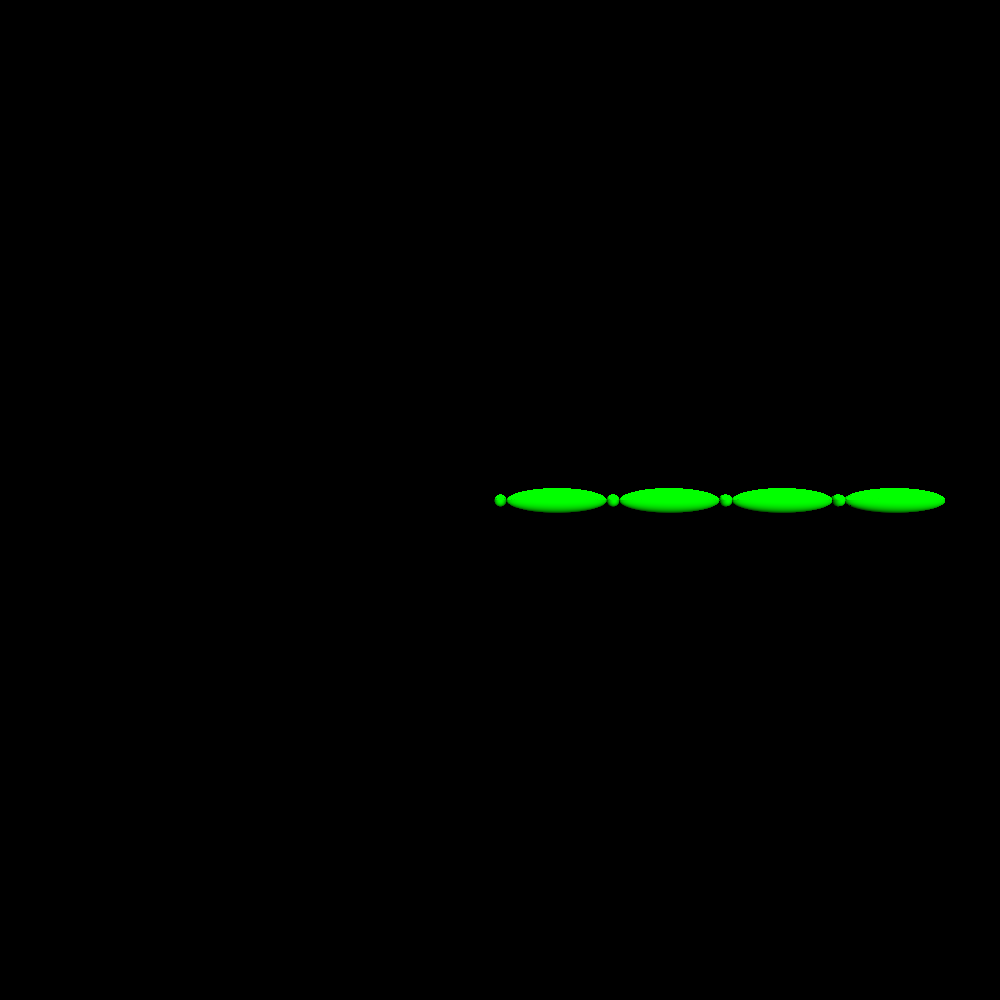
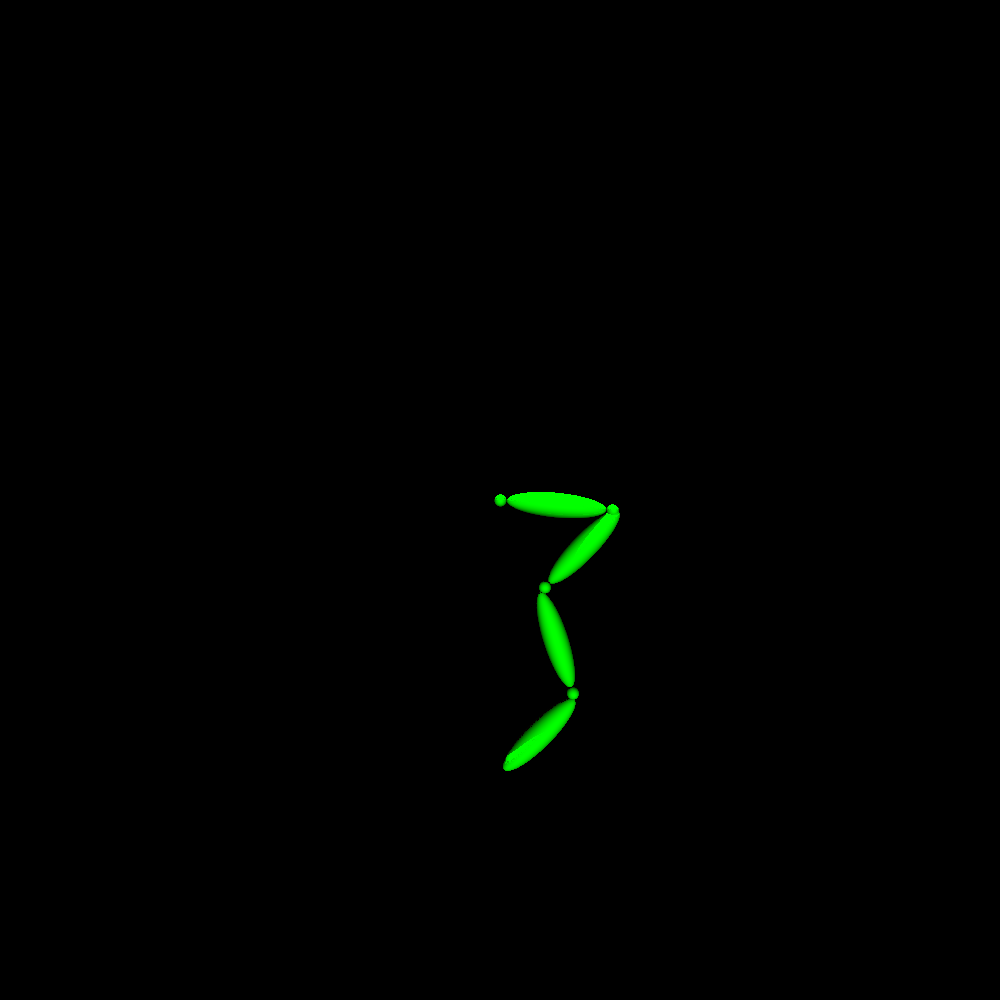
all inverse kinematics functions implemented, very buggy

Changed region(s): [[0.496, 0.465, 0.961, 0.775]]

diff --git a/A4/kinematics_solver.cpp b/A4/kinematics_solver.cpp
@@ -614,6 +614,18 @@ MatrixXd calculateJacobian() {
   return jacob;
 }
 
+void updateAngles(MatrixXd theta) {  
+  int index = 0;
+  Ellipsoid* currEllipsoid = lastEllipsoid;
+  while(currEllipsoid->getLeft() != NULL){
+    if (!currEllipsoid->isJoint()) {
+      currEllipsoid->setTheta(theta(index, 0), theta(index, 1), theta(index, 2));
+      index++;
+    }
+    currEllipsoid = currEllipsoid->getLeft();
+  }
+}
+
 void calculateAngles(Point target, MatrixXd j) {
 
   float epsilon = 0.0001;
@@ -645,20 +657,38 @@ void calculateAngles(Point target, MatrixXd j) {
   // TODO make sure it is okay to skip this
 
   // 2. Find the system end effector pe. Check if ||pe−g||<ϵ. If yes, we are done. Else continue to step 3.
-  // int iter = 0;
-  // int iterMax = 100;
+  int iter = 0;
+  int iterMax = 100;
 
-  // Point endEffector;
-  // while(iter < iterMax){
-  //   endEffector = calcEndPoint(theta);
-  //   if (target.distToPt(endEffector) < epsilon) {
-  //     updateAngles(theta);
-  //     return;
-  //   }
+  Point endEffector;
+  while(iter < iterMax){
+    endEffector = calcEndPoint(theta);
+    if (target.distToPt(endEffector) < epsilon) {
+      // updateAngles(theta);
+      return;
+    }
 
-  //   // update
-    
-  // } 
+    // update theta
+    MatrixXd jac = calculateJacobian();
+    MatrixXd jacInv = pinv(jac);
+
+    MatrixXd delta(3, 1);
+    delta(0,0) = target.getX() - endEffector.getX();
+    delta(1,0) = target.getY() - endEffector.getY();
+    delta(2,0) = target.getZ() - endEffector.getZ();
+
+    MatrixXd dr = jacInv*delta;
+
+    for (int r = 0; r < row; r++) {
+      for (int c = 0; c < col; c++) {
+        theta(r,c) = theta(r,c) + dr(r*col + c);
+      }
+    }
+
+    updateAngles(theta);
+
+    iter++;
+  } 
 
 
 
@@ -1256,7 +1286,7 @@ int main(int argc, char *argv[]) {
 
     // TODO define curve
 
-    curve.push_back(Point(18.0, 0.0, 0.0));
+    curve.push_back(Point(18.0, 18.0, 0.0));
 
     for (Point target : curve) {
 
